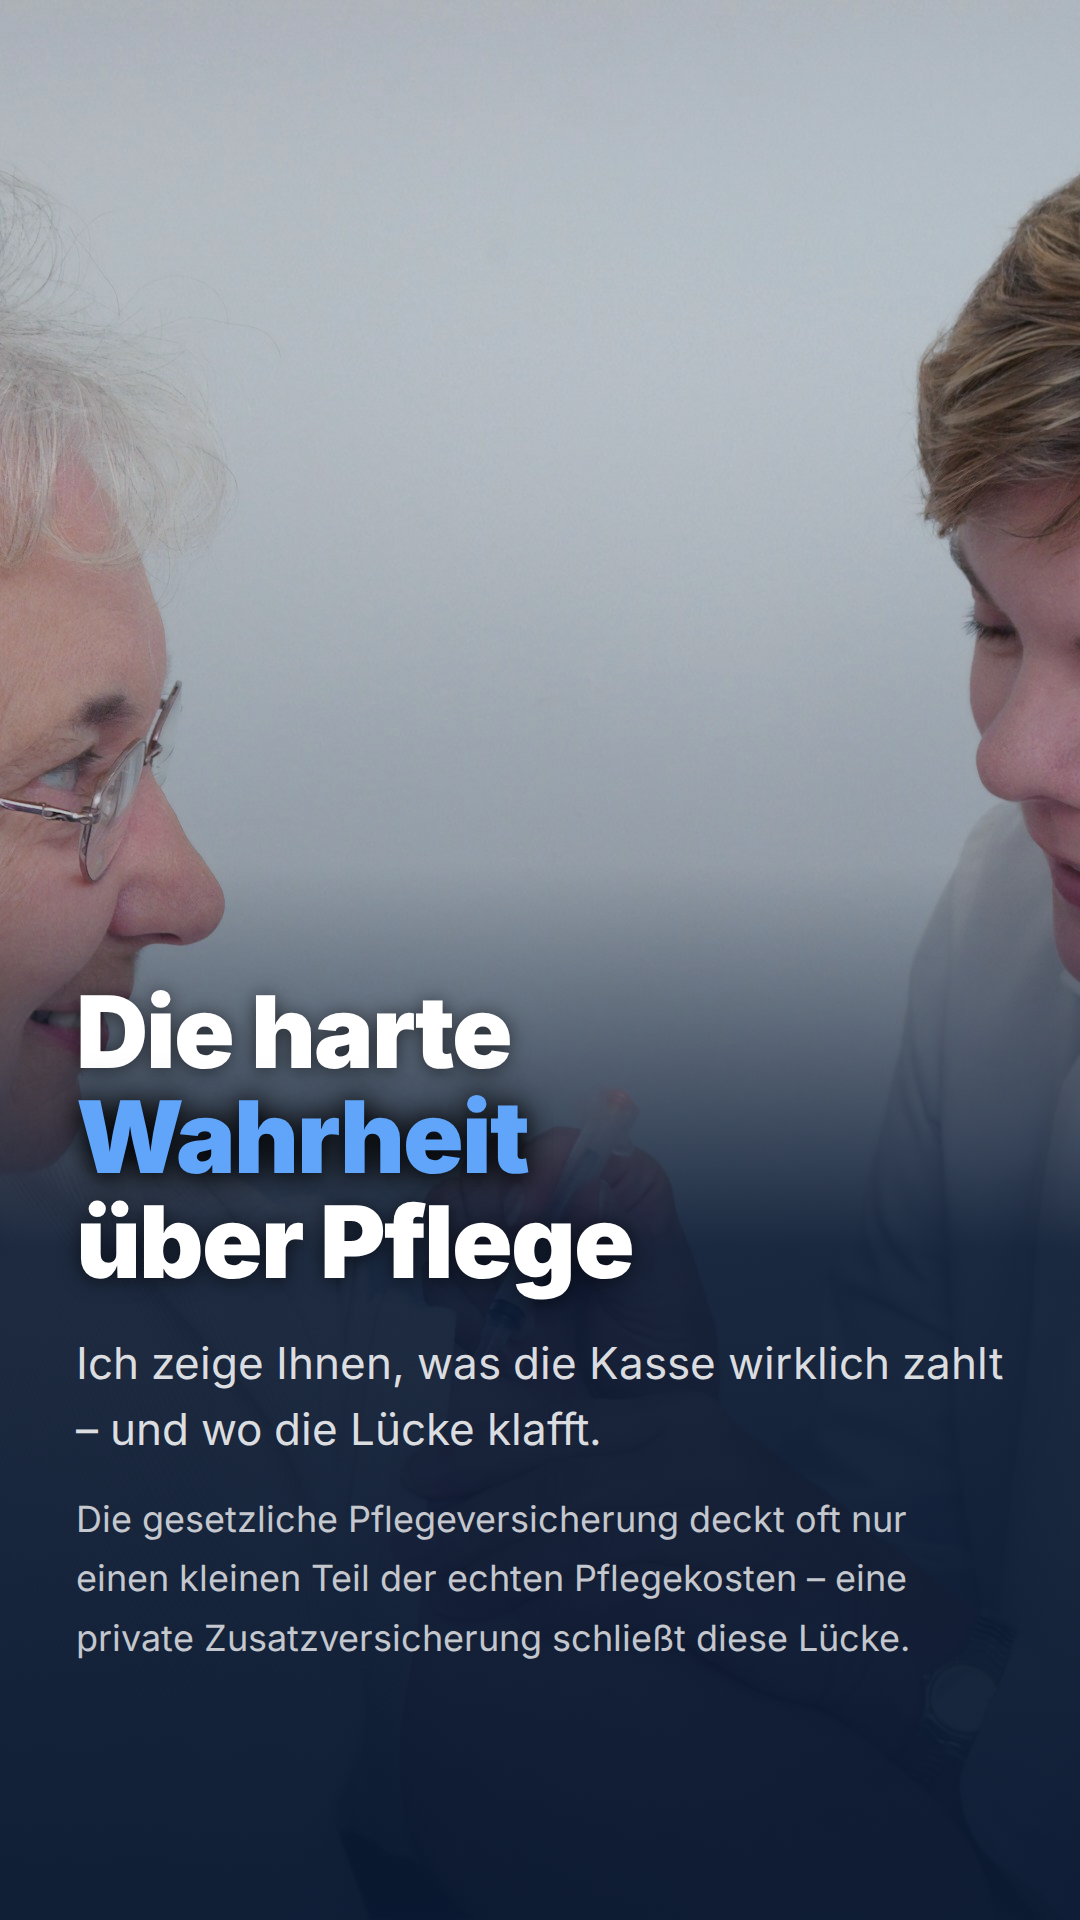
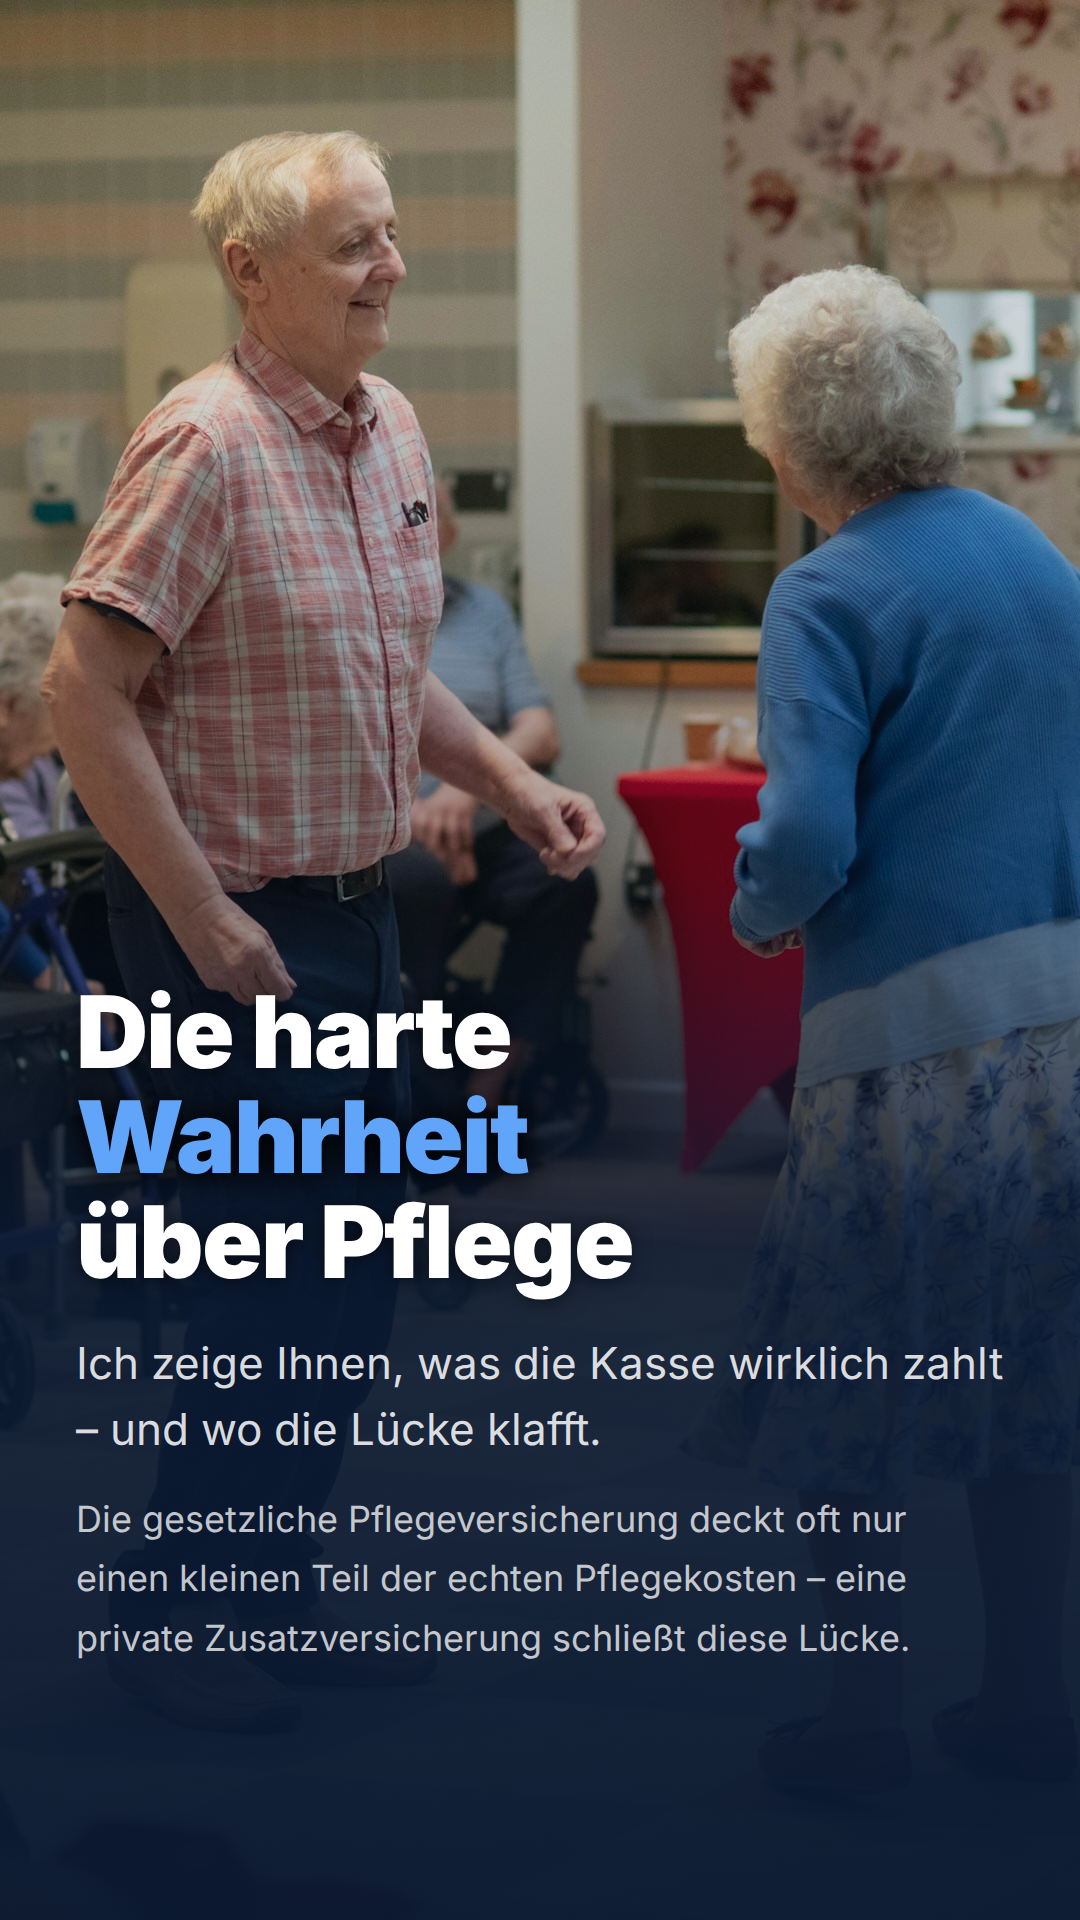
Entwurf geaendert: Pflegeversicherung: Was die Kasse wirklich zahlt

diff --git a/blog/posts/2026-06-01-pflegeversicherung-gesetzliche-absicherung.html b/blog/posts/2026-06-01-pflegeversicherung-gesetzliche-absicherung.html
@@ -9,7 +9,7 @@
   <meta property="og:description" content="Pflegeversicherung: Was die Kasse wirklich zahlt – Tipps von Versicherungsmakler Daniel Eck aus Schmalkalden." />
   <meta property="og:type" content="article" />
   <meta property="og:url" content="https://kneipenterroristecky-cmd.github.io/Webseite_Eckversicherung/blog/posts/2026-06-01-pflegeversicherung-gesetzliche-absicherung.html" />
-  <meta property="og:image" content="https://images.unsplash.com/photo-1576765608535-5f04d1e3f289?w=1200&h=630&fit=crop&auto=format" />
+  <meta property="og:image" content="https://images.unsplash.com/photo-1773227059764-5a769ce568e7?w=1200&h=630&fit=crop&auto=format" />
   <meta property="og:image:width" content="1200" />
   <meta property="og:image:height" content="630" />
   <meta property="og:site_name" content="Daniel Eck – Versicherungsmakler" />

diff --git a/social/latest-ig-heiko.html b/social/latest-ig-heiko.html
@@ -23,7 +23,7 @@
 </head>
 <body>
 <div class="wrap">
-  <img class="bg-img" src="https://images.unsplash.com/photo-1576765608535-5f04d1e3f289?w=1080&h=1920&fit=crop&crop=focalpoint&fp-x=0.5&fp-y=0.35&auto=format" />
+  <img class="bg-img" src="https://images.unsplash.com/photo-1773227059764-5a769ce568e7?w=1080&h=1920&fit=crop&auto=format" />
   <div class="overlay"></div>
   <div class="content">
     <h1>Die harte<br><span>Wahrheit</span><br>über Pflege</h1>

diff --git a/social/latest-ig.html b/social/latest-ig.html
@@ -23,7 +23,7 @@
 </head>
 <body>
 <div class="wrap">
-  <img class="bg-img" src="https://images.unsplash.com/photo-1576765608535-5f04d1e3f289?w=1080&h=1920&fit=crop&crop=focalpoint&fp-x=0.5&fp-y=0.35&auto=format" />
+  <img class="bg-img" src="https://images.unsplash.com/photo-1773227059764-5a769ce568e7?w=1080&h=1920&fit=crop&auto=format" />
   <div class="overlay"></div>
   <div class="content">
     <h1>Die harte<br><span>Wahrheit</span><br>über Pflege</h1>
